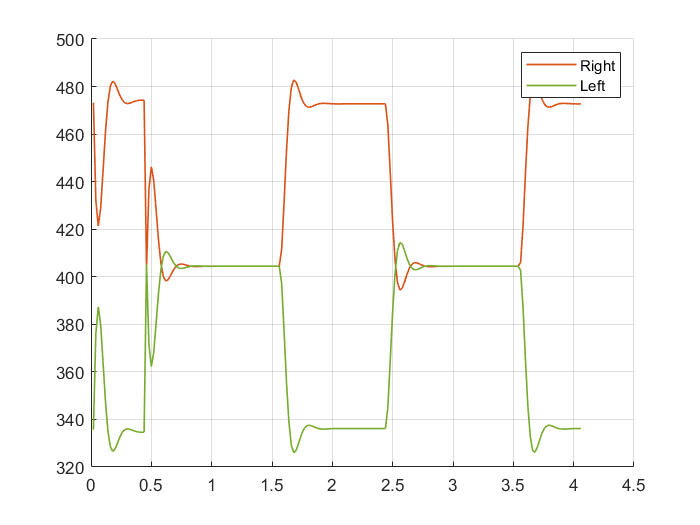
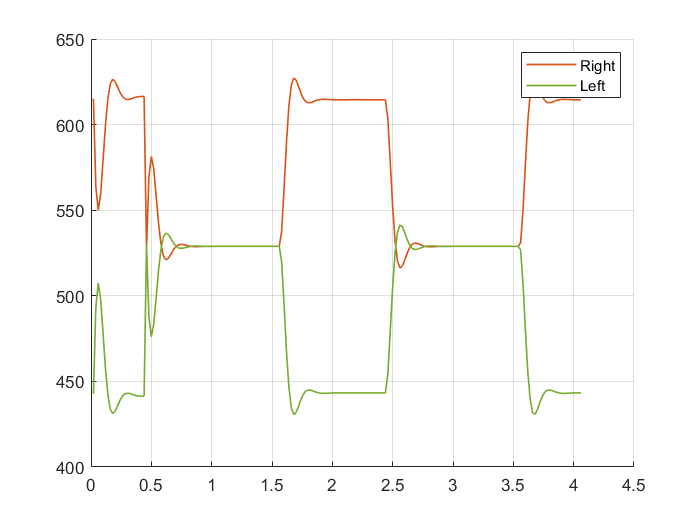
update wheel-distance

diff --git a/main.m b/main.m
@@ -4,8 +4,8 @@ function main(v_ref)
     % Robot
     rbt_width = 200;
     rbt_length = 200;
-    wheel_radius = 85/2;
-    wheel_distance = 170;
+    wheel_radius = 65/2;
+    wheel_distance = 163;
     sensor_interval = 17;
     n_sensors = 7;
     load('sensor_data.mat', 'sensor_data');
